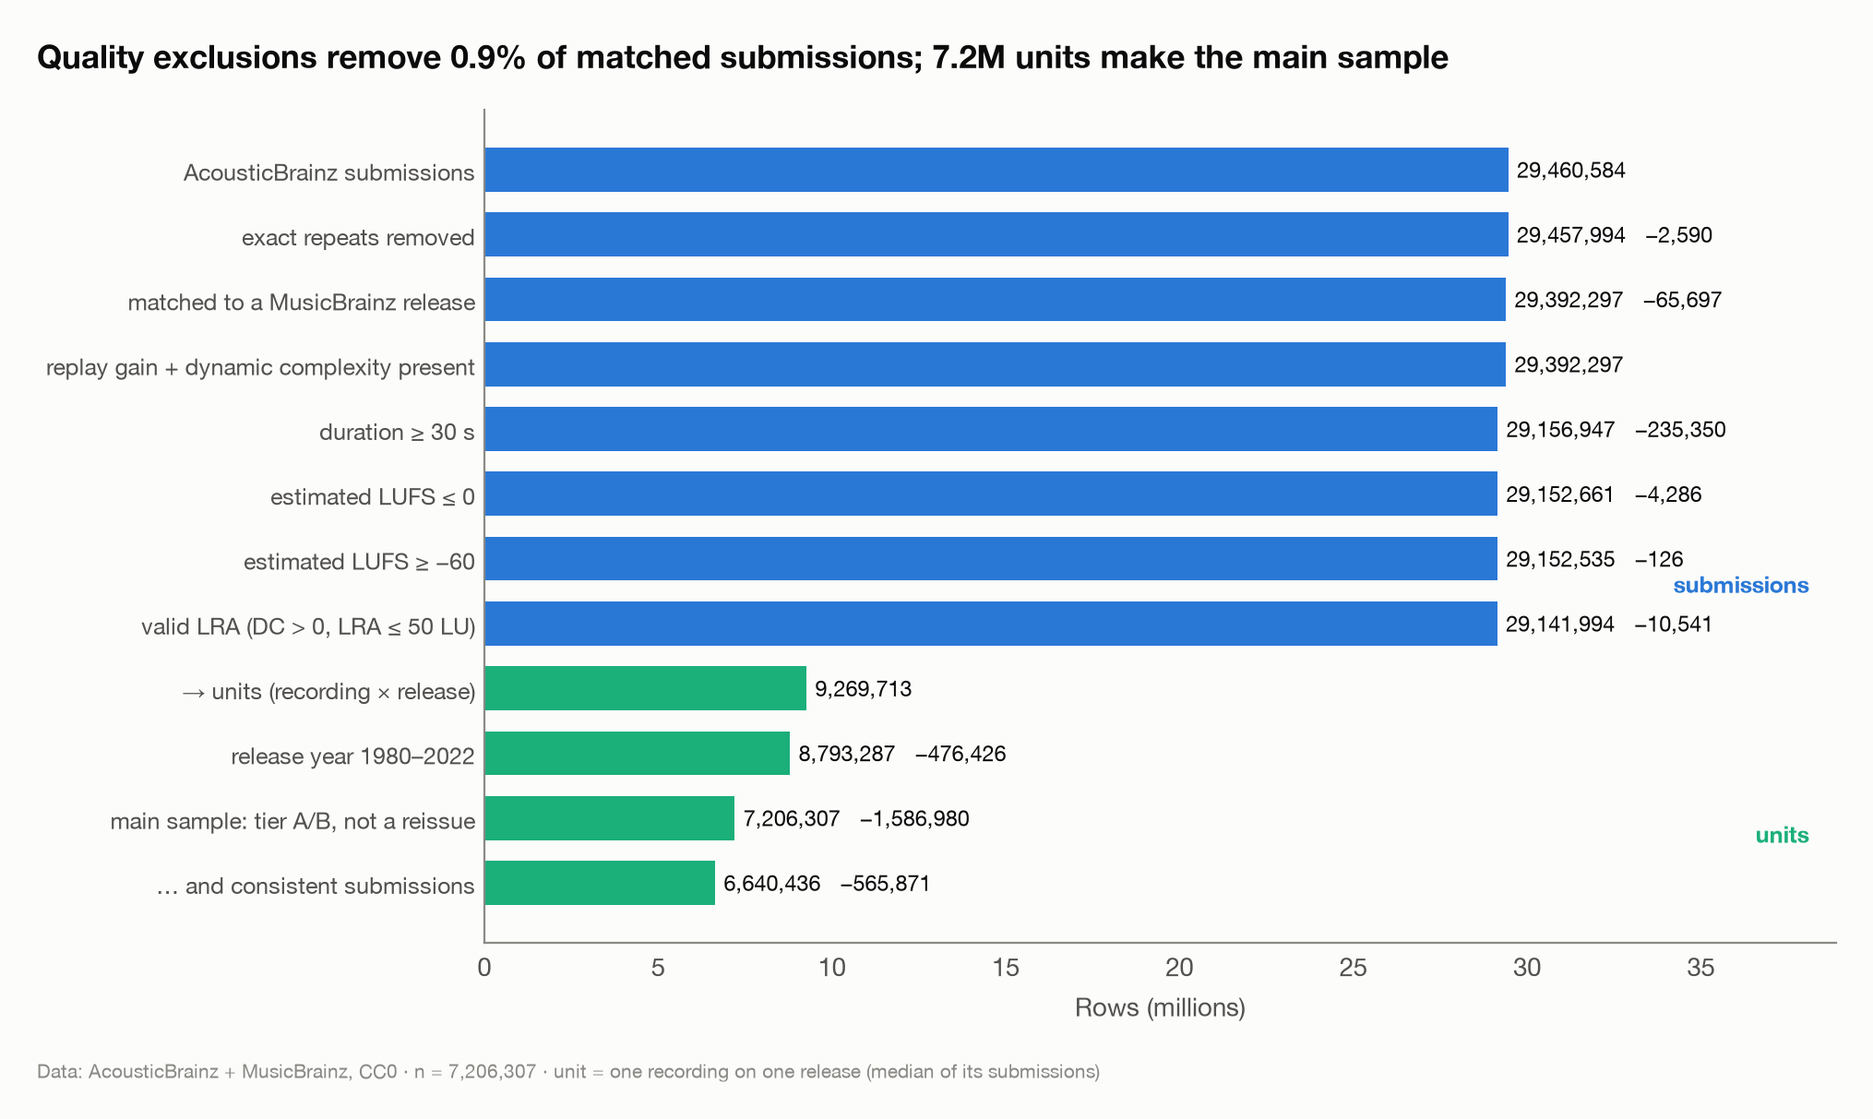
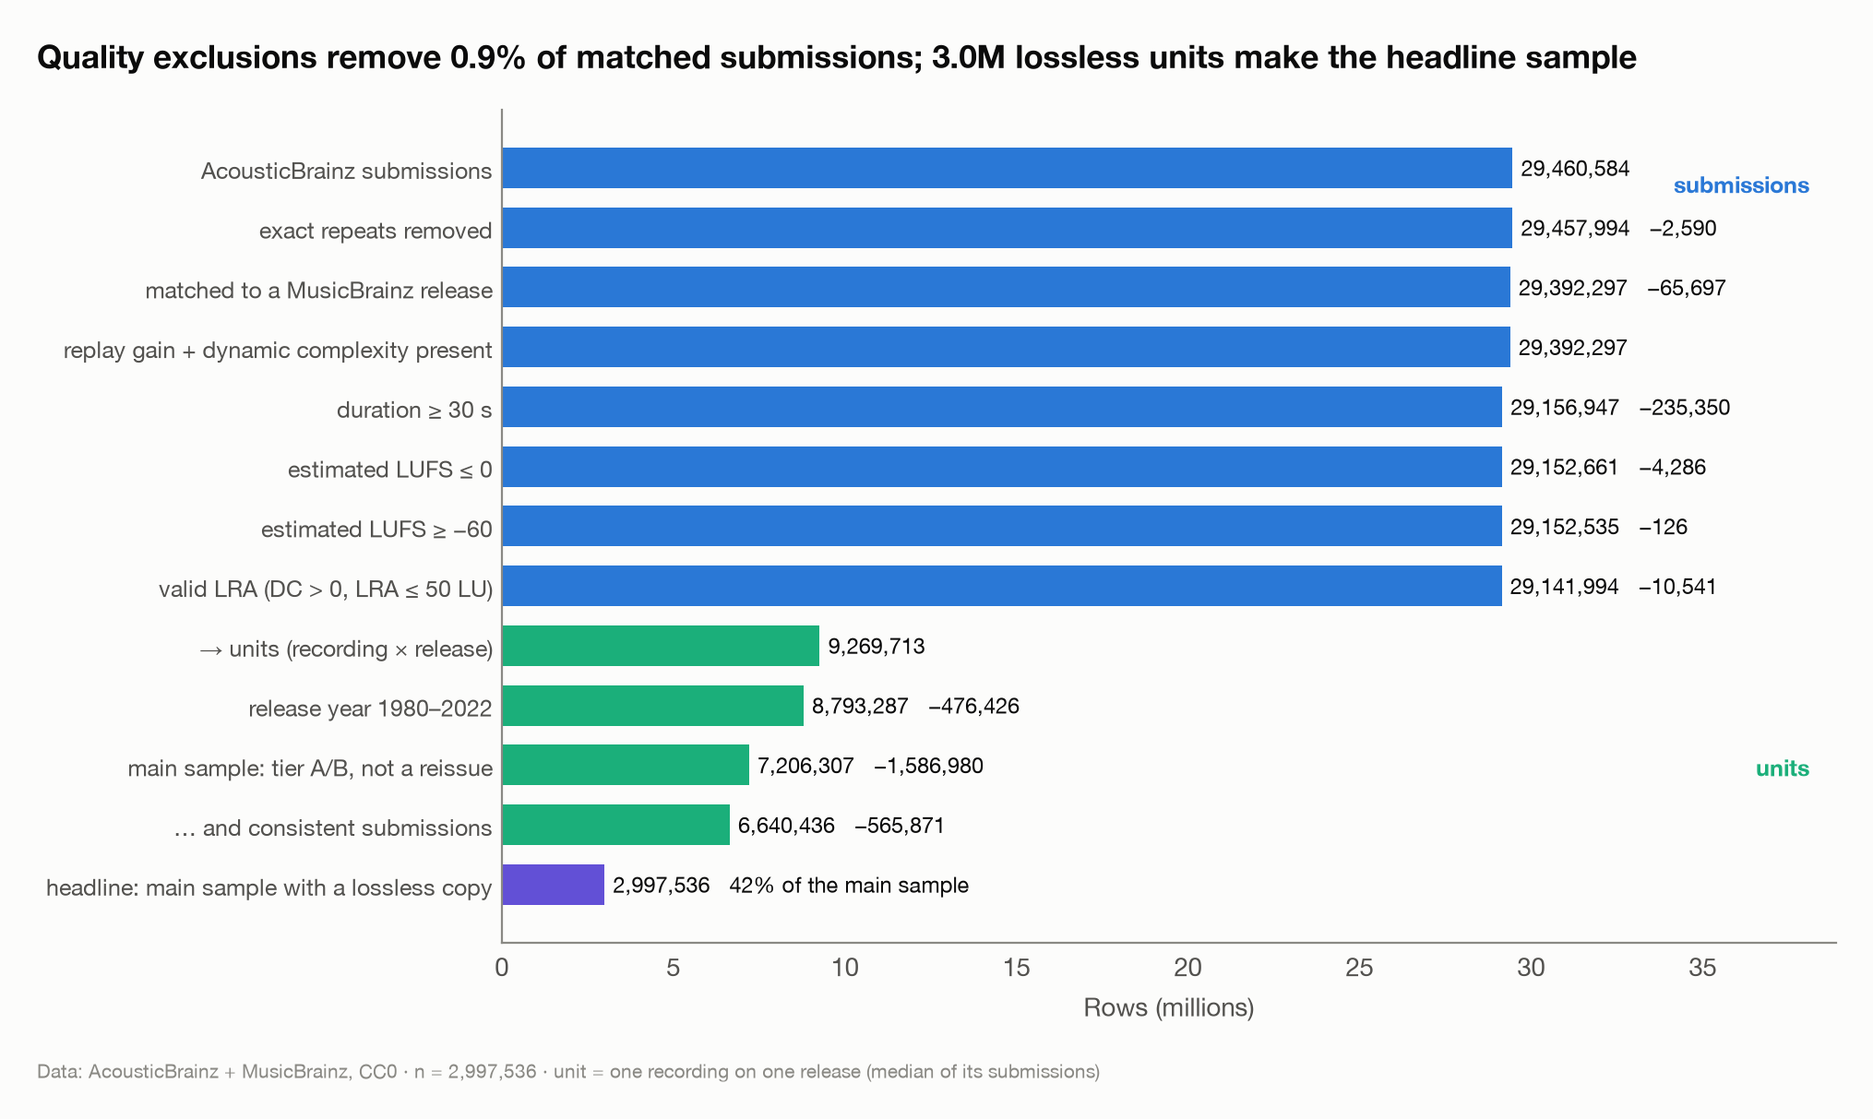
P09: lossless-only headline sample, gain-tag re-stream parser
- in_main_lossless flag (2,997,536 units) is the P12/P13 headline sample (user decision)
- lw.build.parse_gaintags + make ingest-ab-tags: re-stream the 30 low-level parts for
  MP3Gain/ReplayGain/R128/iTunNORM and provenance tags; watcher --tags mode
- funnel figure shows the headline sample; notes and CLAUDE.md decisions updated

diff --git a/src/lw/build/parse_gaintags.py b/src/lw/build/parse_gaintags.py
@@ -1,0 +1,205 @@
+"""P09 follow-up: re-stream the low-level dump and keep only gain-normalisation and provenance tags.
+
+P09 found lossy files whose owners had applied MP3Gain / aacgain. The audio is unchanged, but
+the level is shifted, so the estimated LUFS is wrong. The P05 parser did not keep the tags that
+show this. This pass keeps them per submission (``data/interim/ab_gaintags/part=NN.parquet``,
+joined on recording MBID + part + offset + audio md5):
+
+* ``mp3gain_undo`` (gain applied, in 1.5 dB steps: ``+006,+006,N``), ``mp3gain_minmax`` and
+  ``mp3gain_album_minmax`` (analysed only), ``replaygain_*``, ``r128_*`` and ``itunnorm``
+  (metadata only: a player reads these, the audio is unchanged);
+* provenance: ``encoder``, ``encodedby``, ``encoding``, ``encodersettings``, ``comment``,
+  ``description``, ``notes``, ``source``, ``website``, ``copyright`` and ``file_name``
+  (basename). These help separate CD rips from store downloads and stream rips (the 2014+
+  lossy-vs-lossless gap, notes/p09_dedupe.md);
+* ``gain_keys``: every tag key matching gain / norm / r128 / soundcheck / loudness / volume, so
+  rarer conventions are not lost.
+
+The P05 streaming machinery is reused: Range-resume HTTP, sha256 check, per-part done markers.
+No archive touches disk.
+
+    uv run python -m lw.build.parse_gaintags --parts 0-29 --jobs 2
+"""
+
+from __future__ import annotations
+
+import argparse
+import io
+import json
+import logging
+import re
+import sys
+import time
+from concurrent.futures import ProcessPoolExecutor, as_completed
+from pathlib import Path
+
+import orjson
+import pyarrow as pa
+import pyarrow.parquet as pq
+from tqdm import tqdm
+
+from lw.build import parse_lowlevel as ll
+
+OUT_DIR = ll.ROOT / "data" / "interim" / "ab_gaintags"
+BATCH_ROWS = 200_000
+log = logging.getLogger("parse_gaintags")
+
+GAIN_TAGS = [
+    "mp3gain_undo", "mp3gain_minmax", "mp3gain_album_minmax", "replaygain_track_gain",
+    "replaygain_album_gain", "replaygain_track_peak", "replaygain_reference_loudness",
+    "r128_track_gain", "r128_album_gain", "itunnorm",
+]  # fmt: skip
+PROVENANCE_TAGS = [
+    "encoder", "encodedby", "encoding", "encodersettings", "comment", "description", "notes",
+    "source", "website", "copyright", "file_name",
+]  # fmt: skip
+GAIN_KEY_RE = re.compile(r"gain|norm|r128|soundcheck|loudness|volume", re.I)
+MAX_STR = 200
+
+SCHEMA = pa.schema(
+    [
+        ("recording_mbid", pa.string()),
+        ("submission_offset", pa.int32()),
+        ("part", pa.int16()),
+        ("md5_encoded", pa.string()),
+        ("codec", pa.string()),
+        *[(f"tag_{t}", pa.string()) for t in GAIN_TAGS + PROVENANCE_TAGS],
+        ("gain_keys", pa.list_(pa.string())),
+        ("n_tags", pa.int16()),
+    ]
+)
+
+
+def _first(v) -> str | None:
+    if isinstance(v, list):
+        v = v[0] if v else None
+    if v is None:
+        return None
+    s = str(v).strip()
+    return s[:MAX_STR] if s else None
+
+
+def extract_row(doc: dict, recording_mbid: str, offset: int, part: int) -> dict:
+    meta = doc.get("metadata") or {}
+    ap = meta.get("audio_properties") or {}
+    tags = meta.get("tags") or {}
+    lower = {str(k).lower(): v for k, v in tags.items()}
+    row = {
+        "recording_mbid": recording_mbid,
+        "submission_offset": offset,
+        "part": part,
+        "md5_encoded": _first(ap.get("md5_encoded")),
+        "codec": _first(ap.get("codec")),
+        "gain_keys": sorted(k for k in lower if GAIN_KEY_RE.search(k)) or None,
+        "n_tags": min(len(lower), 32767),
+    }
+    for t in GAIN_TAGS + PROVENANCE_TAGS:
+        row[f"tag_{t}"] = _first(lower.get(t))
+    return row
+
+
+def parse_stream(fileobj, part: int, out_path: Path, errors_path: Path, limit=None) -> dict:
+    stats = {"rows": 0, "errors": 0}
+    tmp = out_path.with_suffix(".parquet.tmp")
+    batch: list[dict] = []
+    with (
+        pq.ParquetWriter(tmp, SCHEMA, compression="zstd") as writer,
+        open(errors_path, "w") as errf,
+    ):
+        for name, raw in ll.iter_documents(fileobj):
+            ident = ll.parse_member_name(name)
+            try:
+                if ident is None:
+                    raise ValueError("unrecognised member name")
+                doc = orjson.loads(raw)
+                if not isinstance(doc, dict):
+                    raise ValueError("document is not an object")
+                batch.append(extract_row(doc, ident[0], ident[1], part))
+                stats["rows"] += 1
+            except (orjson.JSONDecodeError, ValueError) as e:
+                stats["errors"] += 1
+                errf.write(json.dumps({"member": name, "bytes": len(raw), "error": str(e)}) + "\n")
+            if len(batch) >= BATCH_ROWS:
+                writer.write_table(pa.Table.from_pylist(batch, schema=SCHEMA))
+                batch.clear()
+            if limit and stats["rows"] >= limit:
+                break
+        if batch:
+            writer.write_table(pa.Table.from_pylist(batch, schema=SCHEMA))
+    tmp.replace(out_path)
+    return stats
+
+
+def process_part(part: int | None, out_dir: Path = OUT_DIR, limit=None, position=0) -> dict:
+    out_dir.mkdir(parents=True, exist_ok=True)
+    tag = "sample" if part is None else f"part={part:02d}"
+    done = out_dir / f"{tag}.done.json"
+    if done.exists() and not limit:
+        return json.loads(done.read_text())
+    src = str(ll.SAMPLE_PATH) if part is None else ll.part_url(part)
+    t0 = time.time()
+    if src.startswith("http"):
+        raw = ll.ResumableHTTPReader(src)
+        total = raw.length
+    else:
+        raw = open(src, "rb")  # noqa: SIM115 - closed below
+        total = Path(src).stat().st_size
+    tty = sys.stderr.isatty()
+    bar = tqdm(total=total, unit="B", unit_scale=True, desc=f"tags {tag}",
+               position=position if tty else 0, mininterval=0.1 if tty else 60)  # fmt: skip
+    reader = ll.HashingReader(raw, bar)
+    try:
+        stats = parse_stream(
+            io.BufferedReader(reader, buffer_size=1 << 20), -1 if part is None else part,
+            out_dir / f"{tag}.parquet", out_dir / f"{tag}.errors.jsonl", limit,
+        )  # fmt: skip
+    finally:
+        bar.close()
+        raw.close()
+    stats.update(part=part, source=src, seconds=round(time.time() - t0, 1),
+                 bytes=reader.nbytes, sha256=reader.sha256.hexdigest())  # fmt: skip
+    if limit:
+        return stats
+    want = ll.expected_sha256(part)
+    stats["sha256_ok"] = want == stats["sha256"] if want else None
+    if want and not stats["sha256_ok"]:
+        bad = out_dir / f"{tag}.parquet"
+        bad.replace(bad.with_suffix(".badsha.parquet"))
+        raise OSError(f"{tag}: sha256 mismatch")
+    done.write_text(json.dumps(stats, indent=2))
+    return stats
+
+
+def main(argv: list[str] | None = None) -> None:
+    ap = argparse.ArgumentParser(description=__doc__, formatter_class=argparse.RawTextHelpFormatter)
+    ap.add_argument("--parts", default="0-29")
+    ap.add_argument("--sample", action="store_true")
+    ap.add_argument("--jobs", type=int, default=2)
+    ap.add_argument("--limit", type=int)
+    ap.add_argument("--out", type=Path, default=OUT_DIR)
+    args = ap.parse_args(argv)
+    logging.basicConfig(level=logging.INFO, format="%(asctime)s %(levelname)s %(message)s")
+    if args.sample:
+        print(json.dumps(process_part(None, args.out, args.limit), indent=2))
+        return
+    parts = ll._parse_parts(args.parts)
+    failed = []
+    with ProcessPoolExecutor(max_workers=args.jobs) as ex:
+        futs = {ex.submit(process_part, p, args.out, args.limit, i % args.jobs): p
+                for i, p in enumerate(parts)}  # fmt: skip
+        for f in as_completed(futs):
+            p = futs[f]
+            try:
+                s = f.result()
+                log.info(
+                    "part %s: %s rows, %s errors, %ss", p, s["rows"], s["errors"], s["seconds"]
+                )
+            except Exception as e:  # keep going; a rerun retries failed parts
+                failed.append(p)
+                log.error("part %s failed: %s", p, e)
+    if failed:
+        raise SystemExit(f"failed parts (rerun to retry): {sorted(failed)}")
+
+
+if __name__ == "__main__":
+    main()

diff --git a/src/lw/viz/p09.py b/src/lw/viz/p09.py
@@ -35,36 +35,40 @@ def fig_funnel(s: dict) -> None:
         ("release year 1980–2022", f["units_core"], "unit"),
         ("main sample: tier A/B, not a reissue", f["units_main"], "unit"),
         ("  … and consistent submissions", f["units_main_consistent"], "unit"),
+        ("headline: main sample with a lossless copy", f["units_main_lossless"], "head"),
     ]
     theme.apply()
     fig, ax = plt.subplots(figsize=(10, 5.6))
     y = np.arange(len(steps))[::-1]
     vals = np.array([v for _, v, _ in steps]) / 1e6
-    cols = [theme.SERIES[0] if k == "sub" else theme.SERIES[2] for *_, k in steps]
+    cols = [{"sub": theme.SERIES[0], "unit": theme.SERIES[2], "head": theme.SERIES[6]}[k]
+            for *_, k in steps]  # fmt: skip
     ax.barh(y, vals, color=cols, height=0.68)
     prev = None
     for yi, (_lab, v, k), vm in zip(y, steps, vals, strict=True):
         drop = ""
         if prev is not None and prev[1] == k and prev[0] != v:
             drop = f"   −{prev[0] - v:,}"
+        if k == "head":
+            drop = f"   {v / f['units_main']:.0%} of the main sample"
         ax.text(vm + 0.25, yi, f"{v:,}{drop}", va="center", fontsize=8.5, color=theme.TEXT)
         prev = (v, k)
     ax.set_yticks(y, [lab for lab, *_ in steps], fontsize=9)
     ax.set_xlim(0, vals.max() * 1.32)
     ax.set_xlabel("Rows (millions)")
     ax.grid(axis="y", visible=False)
-    ax.text(0.98, 0.42, "submissions", color=theme.SERIES[0], transform=ax.transAxes,
+    ax.text(0.98, 0.9, "submissions", color=theme.SERIES[0], transform=ax.transAxes,
             ha="right", fontsize=9, fontweight="bold")  # fmt: skip
-    ax.text(0.98, 0.12, "units", color=theme.SERIES[2], transform=ax.transAxes, ha="right",
+    ax.text(0.98, 0.2, "units", color=theme.SERIES[2], transform=ax.transAxes, ha="right",
             fontsize=9, fontweight="bold")  # fmt: skip
     ex = sum(v for k, v in f["excluded"].items() if k != "unmatched")
     fig.suptitle(
         f"Quality exclusions remove {ex / f['after_unmatched']:.1%} of matched submissions; "
-        f"{f['units_main'] / 1e6:.1f}M units make the main sample",
+        f"{f['units_main_lossless'] / 1e6:.1f}M lossless units make the headline sample",
         x=0.01, ha="left", fontsize=12.5, fontweight="bold",
     )  # fmt: skip
     fig.tight_layout()
-    theme.save_fig(fig, "p09_data_funnel", n=f["units_main"], source=SRC, note=UNIT)
+    theme.save_fig(fig, "p09_data_funnel", n=f["units_main_lossless"], source=SRC, note=UNIT)
 
 
 def fig_per_year(c) -> None:

diff --git a/src/lw/build/dedupe.py b/src/lw/build/dedupe.py
@@ -31,7 +31,8 @@ Steps, each counted in the funnel (``data/processed/tracks_funnel.json``):
    are kept for robustness checks.
 
 The output is ``data/processed/tracks.parquet``, with all years. ``in_core`` marks 1980-2022 and
-``in_main`` marks the P12 main sample (core, tier A/B, not a reissue).
+``in_main`` marks core, tier A/B, not a reissue; ``in_main_lossless`` (the headline sample
+for P12/P13, user decision 2026-11-05) also requires a lossless submission.
 
     uv run python -m lw.build.dedupe
 """
@@ -211,7 +212,9 @@ def dedupe(
       n_lossless = n_sub as all_lossless,
       coalesce(n_lossless = 0 and bit_rate_lossy < {LOW_BITRATE}, false) as low_bitrate,
       coalesce(year between {CORE[0]} and {CORE[1]}, false) as in_core,
-      coalesce(year between {CORE[0]} and {CORE[1]} and match_tier in ('A', 'B') and not is_reissue, false) as in_main
+      coalesce(year between {CORE[0]} and {CORE[1]} and match_tier in ('A', 'B') and not is_reissue, false) as in_main,
+      coalesce(year between {CORE[0]} and {CORE[1]} and match_tier in ('A', 'B') and not is_reissue, false)
+        and n_lossless > 0 as in_main_lossless
     from u
     ) to '{parts}/b{b:03d}.parquet' (format parquet, compression zstd)""")
     tmp = out.with_name(out.name + ".tmp")
@@ -222,10 +225,12 @@ def dedupe(
     shutil.rmtree(parts)
     shutil.rmtree(stage)
     con.execute(f"create or replace view tracks as select * from read_parquet('{out}')")
-    f["units"], f["units_core"], f["units_main"], f["units_main_consistent"] = con.execute(
+    (f["units"], f["units_core"], f["units_main"], f["units_main_consistent"],
+     f["units_main_lossless"]) = con.execute(
         "select count(*), count(*) filter (where in_core), count(*) filter (where in_main),"
-        " count(*) filter (where in_main and not inconsistent) from tracks"
-    ).fetchone()
+        " count(*) filter (where in_main and not inconsistent),"
+        " count(*) filter (where in_main_lossless) from tracks"
+    ).fetchone()  # fmt: skip
     f["seconds"] = round(time.time() - t0, 1)
     return f
 

diff --git a/scripts/watch_ingest.py b/scripts/watch_ingest.py
@@ -3,6 +3,7 @@
 
 python3 scripts/watch_ingest.py               # low-level dump, refresh every 5 s
 python3 scripts/watch_ingest.py --highlevel   # high-level dump (P06)
+python3 scripts/watch_ingest.py --tags        # gain/provenance tag re-stream (P09)
 python3 scripts/watch_ingest.py --once        # print once and exit
 """
 
@@ -14,17 +15,18 @@ import time
 from pathlib import Path
 
 HIGH = "--highlevel" in sys.argv
-D = (
-    Path(__file__).resolve().parent.parent
-    / "data"
-    / "interim"
-    / ("ab_highlevel" if HIGH else "ab_lowlevel")
-)
+TAGS = "--tags" in sys.argv
+MODE = "tags" if TAGS else "high" if HIGH else "low"
+D = Path(__file__).resolve().parent.parent / "data" / "interim" / {
+    "low": "ab_lowlevel", "high": "ab_highlevel", "tags": "ab_gaintags"}[MODE]  # fmt: skip
 # sum of Content-Length over all 30 parts (low-level: P01; high-level: P06)
 TOTAL_BYTES = 41_780_535_425 if HIGH else 631_788_161_107
-PROC = "parse_highlevel --parts" if HIGH else "parse_lowlevel --parts"
-TITLE = "AcousticBrainz HIGH-level ingest" if HIGH else "AcousticBrainz ingest"
-RESUME = "make ingest-ab-hl" if HIGH else "make ingest-ab"
+PROC = {"low": "parse_lowlevel --parts", "high": "parse_highlevel --parts",
+        "tags": "parse_gaintags --parts"}[MODE]  # fmt: skip
+TITLE = {"low": "AcousticBrainz ingest", "high": "AcousticBrainz HIGH-level ingest",
+         "tags": "AcousticBrainz gain-tag re-stream"}[MODE]  # fmt: skip
+RESUME = {"low": "make ingest-ab", "high": "make ingest-ab-hl", "tags": "make ingest-ab-tags"}[MODE]
+LOGNAME = "run.log" if TAGS else "ingest.log"
 N_PARTS = 30
 WIDTH = 40
 LINE = re.compile(
@@ -56,7 +58,7 @@ def snapshot() -> str:
     rows_done = sum(s["rows"] for s in done.values())
 
     active = {}
-    log = D / "ingest.log"
+    log = D / LOGNAME
     if log.exists():
         for chunk in log.read_text(errors="replace").replace("\r", "\n").splitlines():
             m = LINE.search(chunk)

diff --git a/tests/test_dedupe.py b/tests/test_dedupe.py
@@ -135,6 +135,7 @@ def test_pinned_funnel():
     }  # fmt: skip
     assert (f["units"], f["units_core"], f["units_main"]) == (9_269_713, 8_793_287, 7_206_307)
     assert f["units_main_consistent"] == 6_640_436
+    assert f["units_main_lossless"] == 2_997_536  # headline sample (P12/P13)
     m = s["summary"]
     assert m["recordings"] == 6_773_007 and m["releases"] == 1_215_764
     assert m["median_lufs_main"] == pytest.approx(-11.79, abs=0.01)

diff --git a/CLAUDE.md b/CLAUDE.md
@@ -37,6 +37,8 @@ Project brief: [12-loudness-war.md](12-loudness-war.md). Read it before any prom
 - "Lossless" = FLAC/ALAC/WAV/AIFF; lossy is flagged and dropped in robustness checks.
 - Genre: MusicBrainz release-group tags mapped to ~12 top-level genres; AcousticBrainz high-level genre used only as a fallback, and flagged.
 - Ingest scale: **stream the full low-level dumps** (user decision, 2026-11-02).
+- **Headline sample (user decision, 2026-11-05): lossless units only.** P12/P13 use `in_main_lossless` (main sample with ≥1 lossless submission: 2,997,536 units, 771k in 2015–2022); the all-codec `in_main` line is the dashed comparison. This reverses the original "lossy dropped in robustness checks" default.
+- **Gain tags (user decision, 2026-11-05):** re-stream all 30 low-level parts for gain/provenance tags only (`make ingest-ab-tags` → `data/interim/ab_gaintags/`, ~21 h, started 2026-11-05 23:10; watch with `python3 scripts/watch_ingest.py --tags`). When done: join on recording + part + offset + md5; correct `mp3gain_undo` files (original RG ≈ RG − 1.5 × steps), flag MP3Gain/aacgain and stream-rip provenance, rebuild `tracks.parquet`, and re-check the 2014+ lossy gap. Do this before P12 if the stream has finished.
 - **Unit loudness (P09): lossless first.** `lufs`/`lra` = median over a unit's lossless submissions if it has any, else its lossy ones; some lossy files had MP3Gain/aacgain applied (identical audio, level shifted). `lufs_all`, `lufs_lossless`, `lufs_lossy` are kept. Lossy copies read ~0.4 LU quieter than lossless from 2014 on, so the lossless-only check is essential in P12/P13/P19.
 - Reissue rule (P08): deluxe / special edition / bonus tracks are `is_deluxe`, **not** reissues (86% are released with the original); reissue keywords are remaster, anniversary, reissue, legacy edition, expanded.
 - Own audio: **some rips, mostly lossy** (user decision, 2026-11-02). P18 treats them as secondary evidence, and the R128 test signals plus published measurements serve as the main check. P03 used `~/Music/iTunes/iTunes Media/Music` + `~/Music/Music` (AAC). **Update 2026-11-05:** the user will rip ~12 CDs to FLAC/ALAC with MusicBrainz IDs (quiet pre-1990, loud-war peak, post-2015, classical/jazz, metal/EDM, plus an original + remaster pair if possible) for P18. Ask for the folder path at P18. The 64 KB short/broken files in the library are intentional; leave them skipped.
@@ -75,7 +77,7 @@ Project brief: [12-loudness-war.md](12-loudness-war.md). Read it before any prom
 
 ## Phase 2 — Models and core charts
 
-- [ ] **P12: Hero chart v1 and LRA chart.** Plot median LUFS by release year, 1980–2022, with the P10–P90 band, bootstrap CI on the median, the normalisation era shaded from P04, and n per year shown. Make the same chart for LRA. Use tier A+B matches with no reissues as the main sample, and overlay the all-tracks line as a dashed comparison. *Figures: `figures/p12_hero_lufs.png` + `.html`, `figures/p12_lra.png` + `.html` (brief charts 1–2).*
+- [ ] **P12: Hero chart v1 and LRA chart.** Plot median LUFS by release year, 1980–2022, with the P10–P90 band, bootstrap CI on the median, the normalisation era shaded from P04, and n per year shown. Make the same chart for LRA. Use `in_main_lossless` (tier A+B, no reissues, lossless source; decided at P09) as the main sample, and overlay the all-codec `in_main` line as a dashed comparison. *Figures: `figures/p12_hero_lufs.png` + `.html`, `figures/p12_lra.png` + `.html` (brief charts 1–2).*
 
 - [ ] **P13: Interrupted time series.** Write `src/lw/models/its.py`: a segmented regression of the yearly median (and a track-level model with year fixed effects) with level and slope change at 2015, Newey-West SEs, and pre-trend projection. Re-run with break years 2013–2017, placebo breaks (1995–2010), and a data-driven break search (Bai-Perron or a likelihood-profile scan). Answer the brief's falsification test: is there a break vs the 2000–2014 trend? *Figures: `figures/p13_its_fit.png` (observed vs counterfactual), `figures/p13_break_year_sensitivity.png`, `figures/p13_breakpoint_profile.png`.*
 

diff --git a/notes/p09_dedupe.md b/notes/p09_dedupe.md
@@ -114,3 +114,11 @@ In the main sample:
 - `figures/p09_tracks_per_year.png`
 - `figures/p09_codec_mix_by_year.png`
 - `figures/p09_lossy_gain_check.png` (added: the gain-normalisation diagnostic)
+
+## Follow-up decisions (user, 2026-11-05)
+
+1. **The headline sample is lossless only.** `in_main_lossless` means the main sample plus at least one lossless submission: 2,997,536 units, 771,003 of them from 2015–2022. Median estimated LUFS is −11.72 and median LRA is 7.14 LU. P12/P13 use it as the main line, with the all-codec `in_main` line as the dashed comparison.
+2. **Re-stream the dumps for gain tags.** `src/lw/build/parse_gaintags.py` (`make ingest-ab-tags`, ~21 h) keeps the normalisation tags and provenance tags for each submission (list in the module docstring).
+   - Sample check: 1,866 files carry `mp3gain_undo`. They sit at a replay gain of about 0 dB whatever their step count (`+001` … `+008`), so each file's original level can be recovered: original RG ≈ RG − 1.5 dB × steps.
+   - `file_name` is present on every record.
+   - Once the stream finishes: correct or flag those files, rebuild `tracks.parquet`, and re-check both the 2014+ lossy gap and the −5.5 dB MP3 hump. The undo-tagged files sit at ~0 dB, not −5.5, so the hump may come from a different tool or target.
